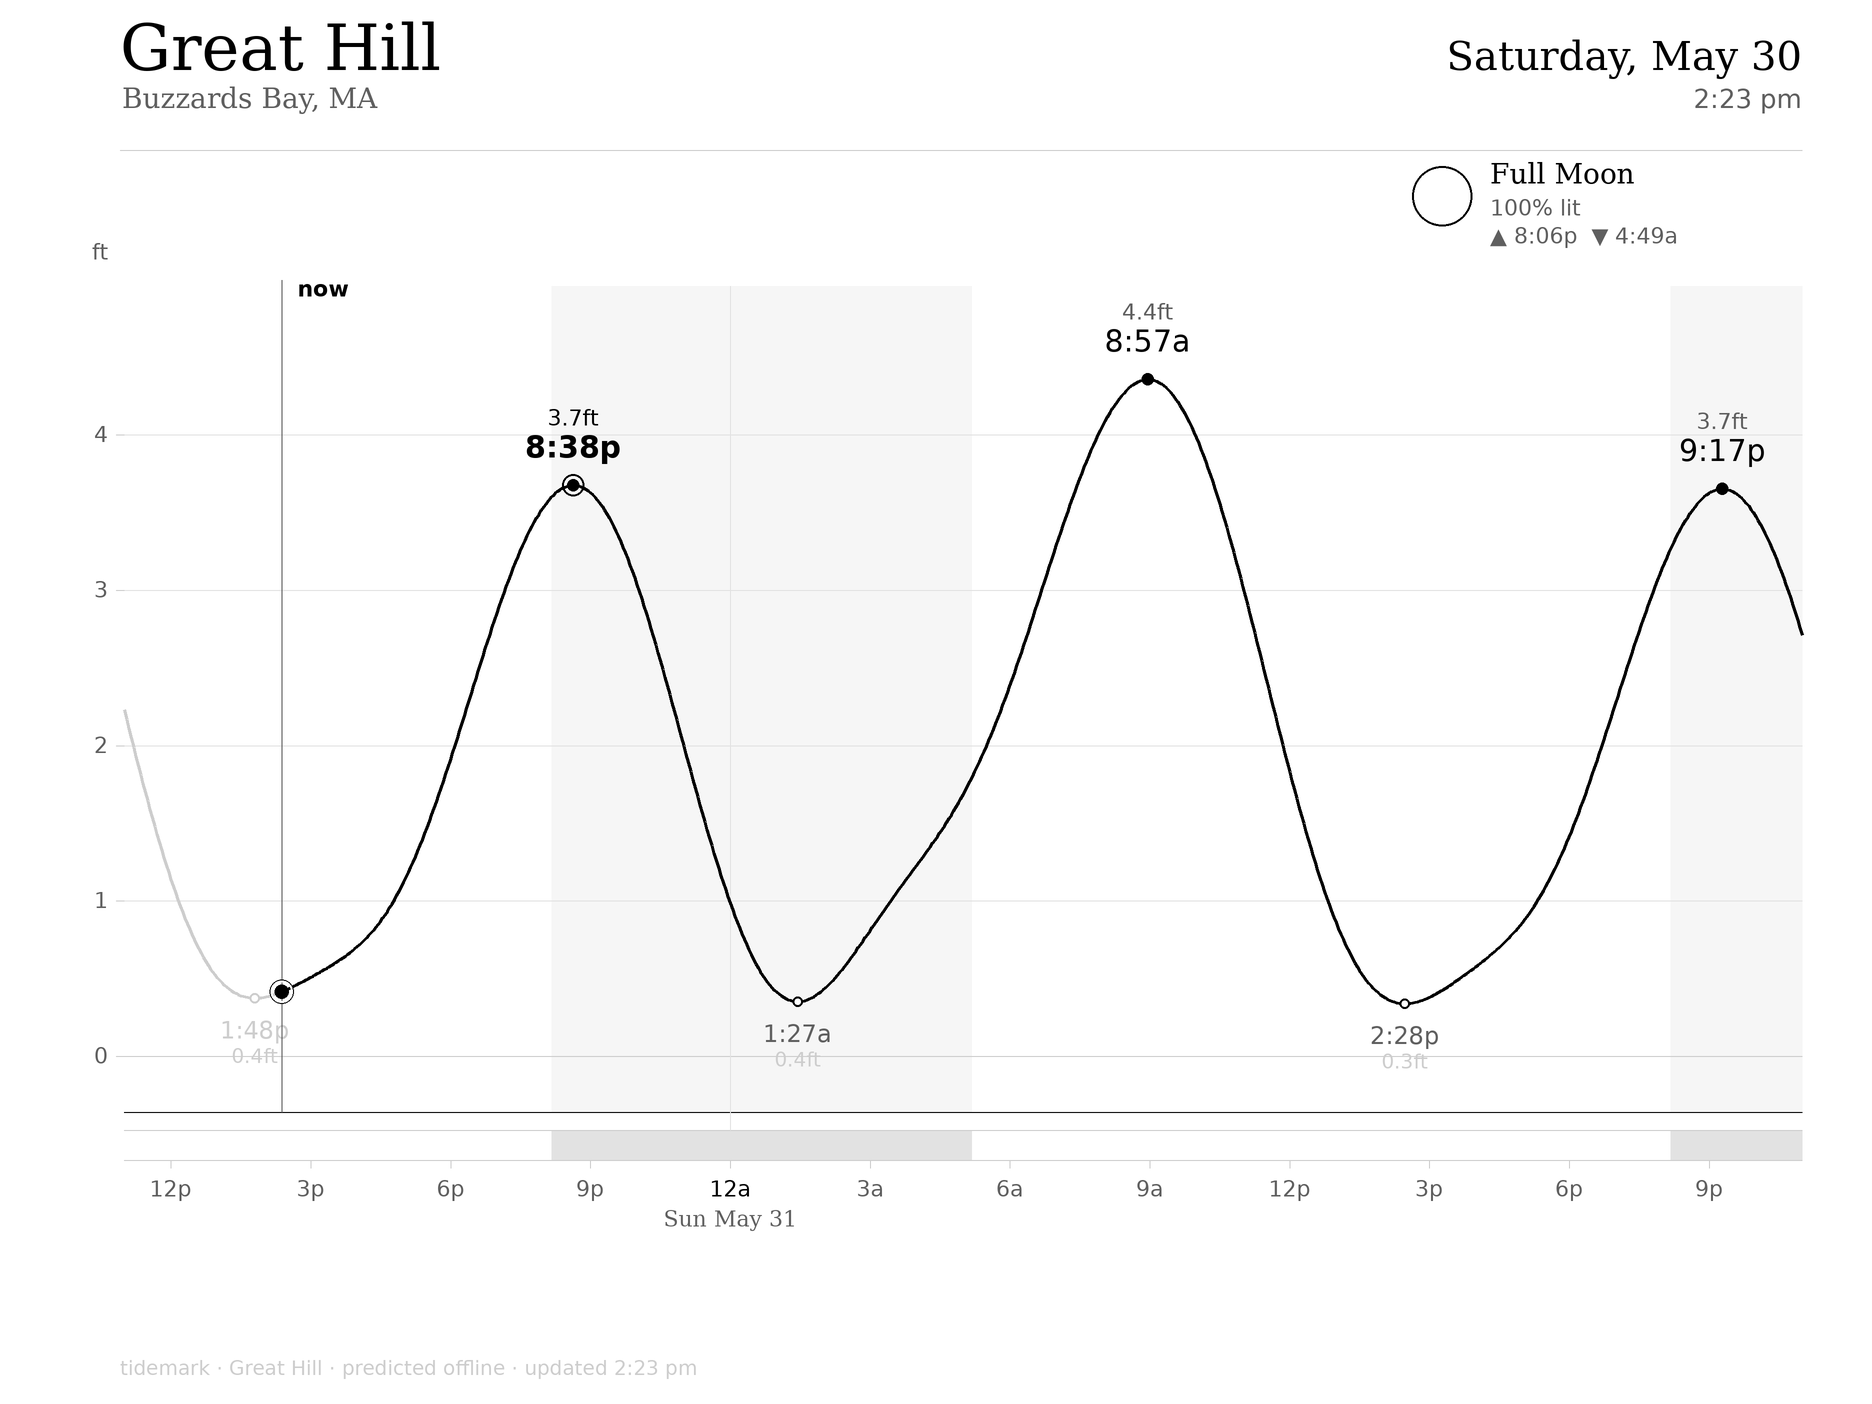
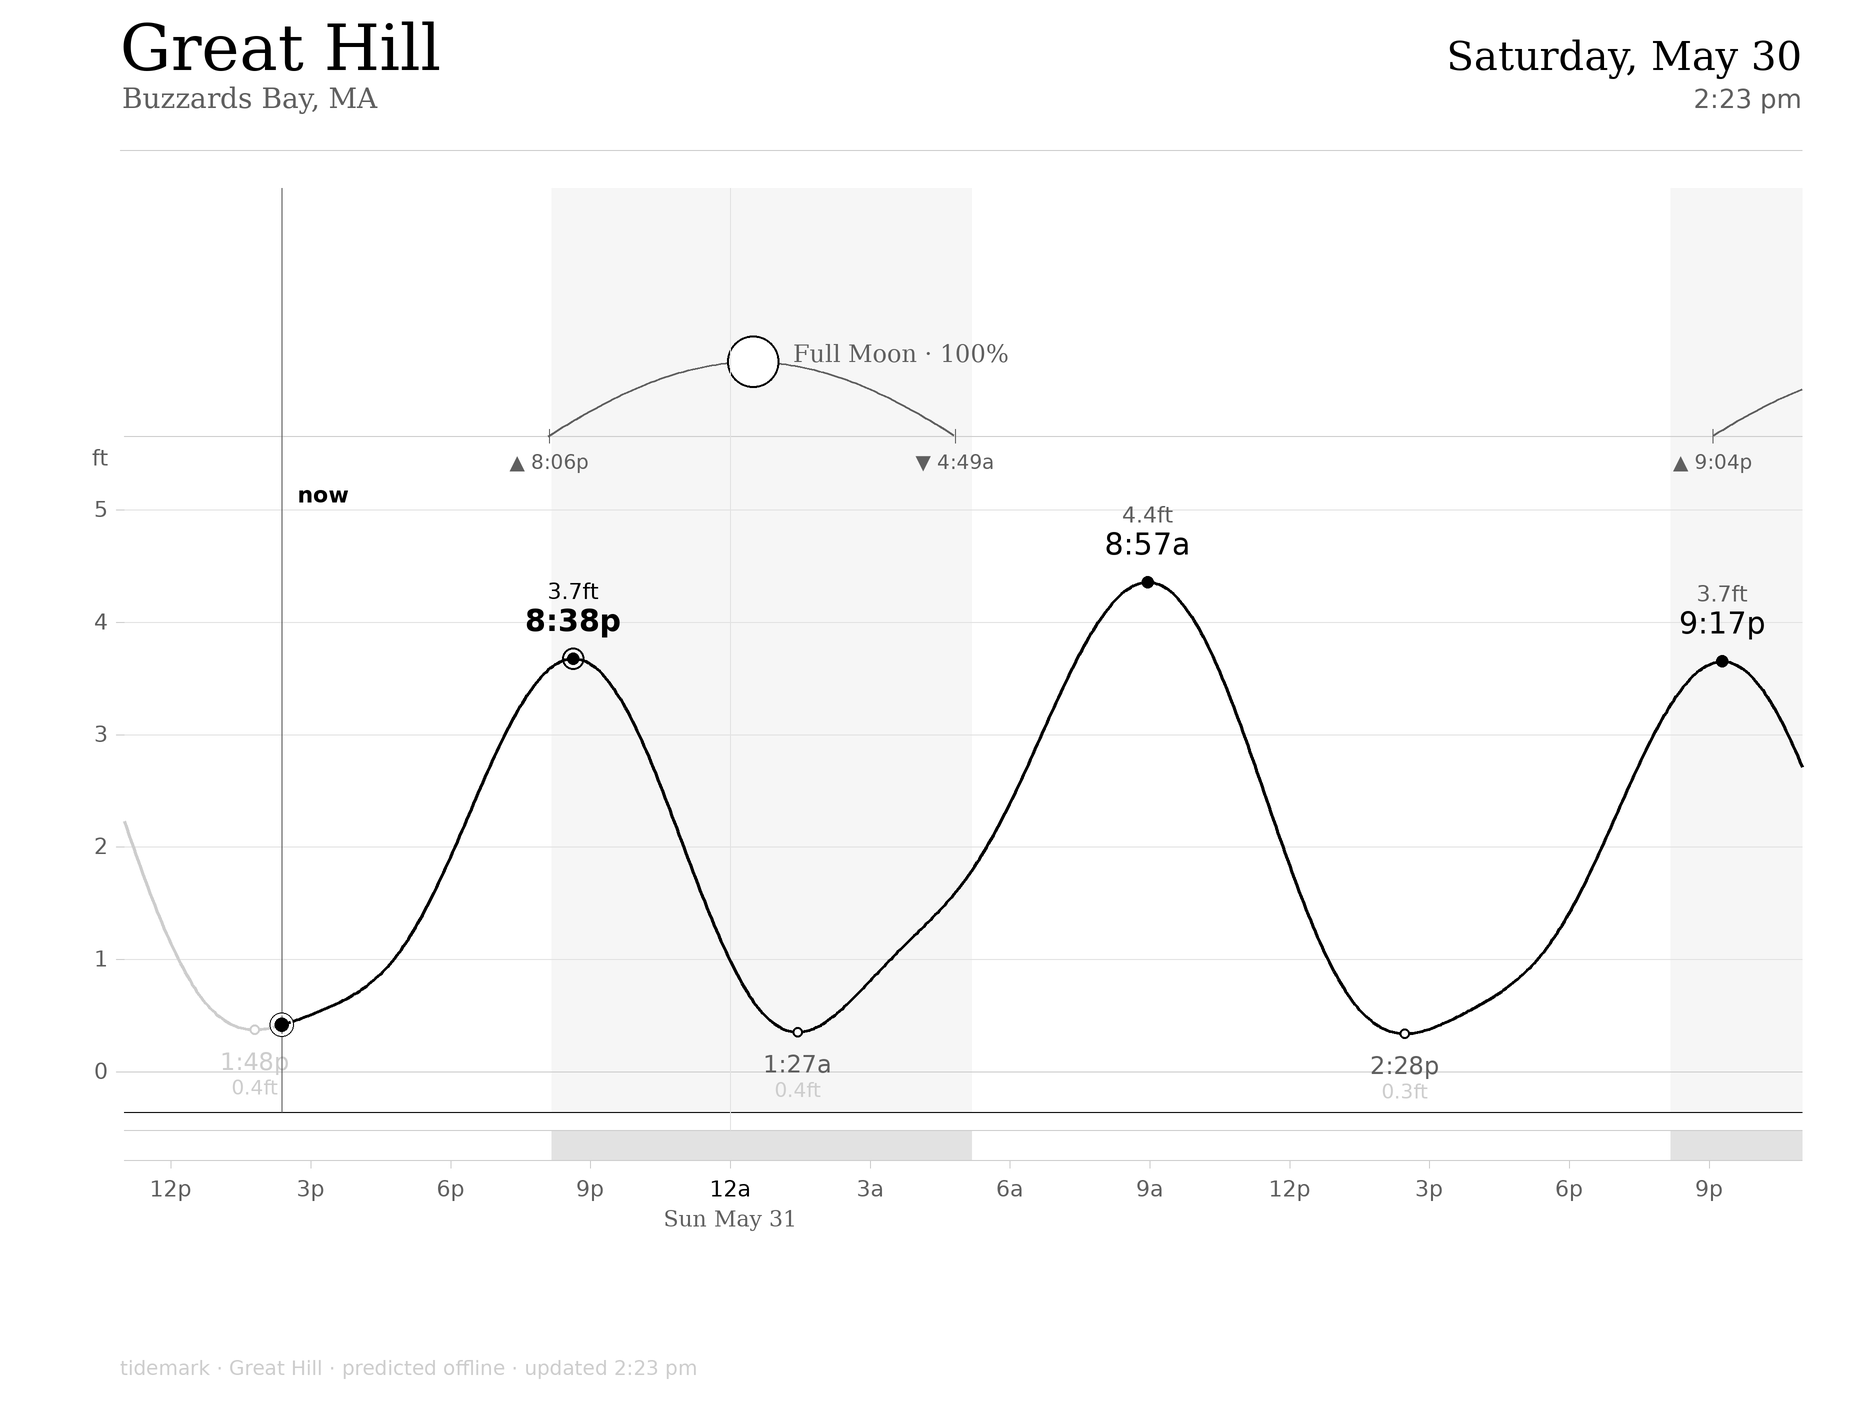
Add moon altitude arc in a dedicated sky panel
Split the canvas into a sky panel and a sea/tide panel divided by a horizon
line ("sky above, water below"). The moon now traces its real altitude track
from moonrise to moonset, with the phase glyph riding at the transit. The arc
height reflects true altitude — a near-solstice full moon rides low, a winter
moon climbs high — so it reads as honest data, not decoration.

- data/moon.py: public altitude() and altitude_track() helpers.
- render/ribbon.py: new _draw_sky (horizon, altitude arc, transit glyph,
  rise/set ticks, phase label); reusable _moon_glyph; retire the redundant
  header moon block. Night wash and the "now" line now span sky + sea.
- render/theme.py: sky-panel geometry (SKY_TOP, HORIZON_Y, ALT_SCALE).
- Only glyph genuine transits so edge-clipped partial arcs show as a bare line.

https://claude.ai/code/session_014Fq612UsCZ38iCJpVjwvpW

diff --git a/src/python/render/ribbon.py b/src/python/render/ribbon.py
@@ -98,7 +98,7 @@ def render(ctx):
     lo = to_disp(series.min)
     hi = to_disp(series.max)
     y_lo = lo - 0.7
-    y_hi = hi + max(0.6, (hi - lo) * 0.14)
+    y_hi = hi + max(0.8, (hi - lo) * 0.16)
 
     def Yv(v):  # display-unit value -> pixel
         return T.PLOT_BOTTOM - (v - y_lo) / (y_hi - y_lo) \
@@ -108,6 +108,7 @@ def render(ctx):
         return Yv(to_disp(h_m))
 
     _draw_daynight(c, ctx, X, start, end)
+    _draw_sky(c, ctx, X)
     _draw_height_axis(c, Yv, y_lo, y_hi, unit_label)
     _draw_time_axis(c, ctx, X)
     _draw_curve(c, series, X, Y, now)
@@ -125,8 +126,8 @@ def _draw_daynight(c, ctx, X, start, end):
     gray — the swim answer at a glance, without a heavy full-screen wash."""
     band_top = T.BAND_TOP
     band_bot = T.BAND_TOP + T.BAND_H
-    # paint everything as night, then lift daylight back to paper white
-    c.rect((T.PLOT_LEFT, T.PLOT_TOP, T.PLOT_RIGHT, T.PLOT_BOTTOM),
+    # paint everything (sky + sea) as night, then lift daylight back to paper
+    c.rect((T.PLOT_LEFT, T.SKY_TOP, T.PLOT_RIGHT, T.PLOT_BOTTOM),
            fill=T.NIGHT_WASH)
     c.rect((T.PLOT_LEFT, band_top, T.PLOT_RIGHT, band_bot), fill=T.FAINT)
     for (sr, sset) in ctx["daylight"]:
@@ -134,7 +135,7 @@ def _draw_daynight(c, ctx, X, start, end):
         x1 = min(T.PLOT_RIGHT, X(sset))
         if x1 <= x0:
             continue
-        c.rect((x0, T.PLOT_TOP, x1, T.PLOT_BOTTOM), fill=T.PAPER)
+        c.rect((x0, T.SKY_TOP, x1, T.PLOT_BOTTOM), fill=T.PAPER)
         c.rect((x0, band_top, x1, band_bot), fill=T.PAPER)
     c.line([(T.PLOT_LEFT, band_top), (T.PLOT_RIGHT, band_top)], T.GRID, 1)
     c.line([(T.PLOT_LEFT, band_bot), (T.PLOT_RIGHT, band_bot)], T.GRID, 1)
@@ -177,7 +178,7 @@ def _draw_time_axis(c, ctx, X):
                anchor="ma")
         if is_midnight:
             # day divider: faint full-height rule + date label
-            c.line([(x, T.PLOT_TOP), (x, T.BAND_TOP)], T.FAINT, 1)
+            c.line([(x, T.SKY_TOP), (x, T.BAND_TOP)], T.FAINT, 1)
             c.text((x, T.AXIS_LABEL_Y + 30), t.strftime("%a %b %-d"),
                    T.INK_SOFT, "serif", 22, anchor="ma")
         t += datetime.timedelta(hours=3)
@@ -228,7 +229,7 @@ def _draw_now(c, series, X, Y, now, to_disp, unit_label):
     x = X(now)
     h = series.height_at(now)
     y = Y(h)
-    c.line([(x, T.PLOT_TOP - 6), (x, T.PLOT_BOTTOM)], T.INK_SOFT, 1)
+    c.line([(x, T.SKY_TOP), (x, T.PLOT_BOTTOM)], T.INK_SOFT, 1)
     c.dot(x, y, 7, fill=T.INK)
     c.dot(x, y, 12, fill=None, outline=T.PAPER, width=3)
     c.dot(x, y, 12, fill=None, outline=T.INK, width=1)
@@ -248,39 +249,83 @@ def _draw_header(c, ctx):
            "sans", 26, anchor="rs")
     # header rule
     c.line([(T.PLOT_LEFT - 4, 150), (T.PLOT_RIGHT, 150)], T.GRID, 1)
-    _draw_moon(c, ctx, T.PLOT_RIGHT - 360, 196)
 
 
-def _draw_moon(c, ctx, cx, cy):
-    moon = ctx["moon"]
-    r = 30
-    frac, illum = moon["frac"], moon["illum"]
-    # dark disk then lit lune
-    c.dot(cx, cy, r, fill=T.INK_SOFT, outline=T.INK, width=2)
+def _moon_glyph(c, cx, cy, r, frac, illum):
+    """Draw a true-phase moon: dark disk with the illuminated lune in paper."""
+    c.dot(cx, cy, r, fill=T.INK_SOFT)
     waxing = frac < 0.5
     rx = r * (1 - 2 * illum)  # signed terminator x-radius
     steps = 48
     poly = []
-    for i in range(steps + 1):  # limb side (top->bottom)
+    for i in range(steps + 1):  # limb side (top -> bottom)
         a = -math.pi / 2 + math.pi * i / steps
         poly.append((cx + (r if waxing else -r) * math.cos(a),
                      cy + r * math.sin(a)))
-    for i in range(steps + 1):  # terminator side (bottom->top)
+    for i in range(steps + 1):  # terminator side (bottom -> top)
         a = math.pi / 2 - math.pi * i / steps
         poly.append((cx + (rx if waxing else -rx) * math.cos(a),
                      cy + r * math.sin(a)))
     if illum > 0.01:
         c.polygon(poly, fill=T.PAPER)
     c.dot(cx, cy, r, fill=None, outline=T.INK, width=2)
-    # label + rise/set
-    c.text((cx + r + 18, cy - 22), moon["name"], T.INK, "serif", 28,
-           anchor="lm")
-    rs = "  ".join(f"{'▲' if k == 'moonrise' else '▼'} {_fmt_time(t)}"
-                   for k, t in moon["events"][:2])
-    c.text((cx + r + 18, cy + 12), f"{int(round(illum*100))}% lit", T.INK_SOFT,
-           "sans", 22, anchor="lm")
-    if rs:
-        c.text((cx + r + 18, cy + 40), rs, T.INK_SOFT, "sans", 22, anchor="lm")
+
+
+def _draw_sky(c, ctx, X):
+    """The sky panel: the moon's real altitude arc from rise to set, with the
+    phase glyph riding at its high point. Sun stays as the day/night band."""
+    moon = ctx["moon"]
+    track = moon["track"]
+    frac, illum = moon["frac"], moon["illum"]
+
+    def sky_y(alt):
+        a = max(0.0, min(alt, T.ALT_SCALE))
+        return T.HORIZON_Y - a / T.ALT_SCALE * (T.HORIZON_Y - T.SKY_TOP)
+
+    # horizon line
+    c.line([(T.PLOT_LEFT, T.HORIZON_Y), (T.PLOT_RIGHT, T.HORIZON_Y)],
+           T.GRID, 1)
+
+    # split the track into above-horizon arc segments
+    segments, seg = [], []
+    for (t, alt) in track:
+        if alt > 0:
+            seg.append((X(t), sky_y(alt), alt))
+        elif seg:
+            segments.append(seg)
+            seg = []
+    if seg:
+        segments.append(seg)
+
+    best_apex = None  # (x, y, alt) of the highest transit, for the label
+    for seg in segments:
+        pts = [(x, y) for x, y, _ in seg]
+        if len(pts) > 1:
+            c.line(pts, T.INK_SOFT, 2)
+        # only glyph a genuine transit: an interior altitude maximum, so partial
+        # arcs clipped at the window edge show as a bare rising/setting line
+        ai = max(range(len(seg)), key=lambda i: seg[i][2])
+        apex = seg[ai]
+        if 0 < ai < len(seg) - 1 and apex[2] > 6:
+            _moon_glyph(c, apex[0], apex[1], 26, frac, illum)
+            if best_apex is None or apex[2] > best_apex[2]:
+                best_apex = apex
+
+    # rise/set ticks + times at the horizon
+    for kind, t in moon["events"]:
+        x = X(t)
+        if x < T.PLOT_LEFT + 4 or x > T.PLOT_RIGHT - 4:
+            continue
+        c.line([(x, T.HORIZON_Y - 7), (x, T.HORIZON_Y + 7)], T.INK_SOFT, 1)
+        arrow = "▲" if kind == "moonrise" else "▼"
+        c.text((x, T.HORIZON_Y + 14), f"{arrow} {_fmt_time(t)}", T.INK_SOFT,
+               "sans", 20, anchor="ma")
+
+    # phase name + illumination beside the highest moon
+    if best_apex is not None:
+        label = f"{moon['name']} · {int(round(illum * 100))}%"
+        c.text((best_apex[0] + 40, best_apex[1] - 8), label, T.INK_SOFT,
+               "serif", 24, anchor="lm")
 
 
 def _draw_footer(c, ctx):

diff --git a/src/python/main.py b/src/python/main.py
@@ -39,13 +39,14 @@ def build_context(now=None):
     frac, illum = moonmod.phase(now)
     moon_events = moonmod.rise_set(start, end, loc["latitude"],
                                    loc["longitude"], tz)
-    # prefer the next upcoming rise/set pair
-    upcoming = [e for e in moon_events if e[1] >= now] or moon_events
+    moon_track = moonmod.altitude_track(start, end, loc["latitude"],
+                                        loc["longitude"])
     moon = {
         "frac": frac,
         "illum": illum,
         "name": moonmod.phase_name(frac),
-        "events": upcoming,
+        "events": moon_events,   # all rise/set within the window
+        "track": moon_track,     # (datetime, altitude_deg) for the sky arc
     }
 
     return {

diff --git a/src/python/render/theme.py b/src/python/render/theme.py
@@ -23,10 +23,14 @@ FAINT = 226       # night band fill
 TWILIGHT = 246    # twilight band fill
 NIGHT_WASH = 246  # barely-there night shading inside the plot
 
-# Plot geometry
+# Plot geometry. The canvas splits into a sky panel (celestial arcs, above the
+# horizon) and the tide/sea panel (below it).
 PLOT_LEFT = 124
 PLOT_RIGHT = WIDTH - 70
-PLOT_TOP = 286
+SKY_TOP = 188             # top of the sky panel
+HORIZON_Y = 436           # the horizon: arcs rise from here, sea sits below
+ALT_SCALE = 72.0          # altitude (deg) mapped to the full sky-panel height
+PLOT_TOP = 492            # top of the tide panel
 PLOT_BOTTOM = 1112
 
 BAND_TOP = 1130           # daylight band

diff --git a/src/python/data/moon.py b/src/python/data/moon.py
@@ -86,6 +86,23 @@ def _altitude(dt, lat, lon):
     return alt * R2D
 
 
+def altitude(dt, lat, lon):
+    """Public alias: Moon altitude (deg) above the horizon."""
+    return _altitude(dt, lat, lon)
+
+
+def altitude_track(start, end, lat, lon, step_minutes=6):
+    """Sampled (datetime, altitude_deg) over [start, end] for plotting the
+    moon's arc across the sky."""
+    track = []
+    t = start
+    step = datetime.timedelta(minutes=step_minutes)
+    while t <= end:
+        track.append((t, _altitude(t, lat, lon)))
+        t += step
+    return track
+
+
 def rise_set(start, end, lat, lon, tz):
     """
     Moonrise and moonset events (tz-aware) in [start, end].

diff --git a/README.md b/README.md
@@ -61,6 +61,12 @@ grays, direct labels, no boxes or heavy gridlines. The chart is rendered at 2×
 and downsampled for smooth anti-aliased lines. Daylight high tides sit on white;
 night ones sit on a faint gray wash — the swim answer, read at a glance.
 
+The canvas is split into a **sky panel** and a **sea panel** by a horizon line.
+The moon traces its real altitude arc across the sky — rising, transiting, and
+setting at the correct times and the correct height (a near-solstice full moon
+rides low; a winter moon climbs high) — with the phase glyph at its high point.
+The sky panel is also where optional weather will live.
+
 ## Build & run
 
 ```bash
